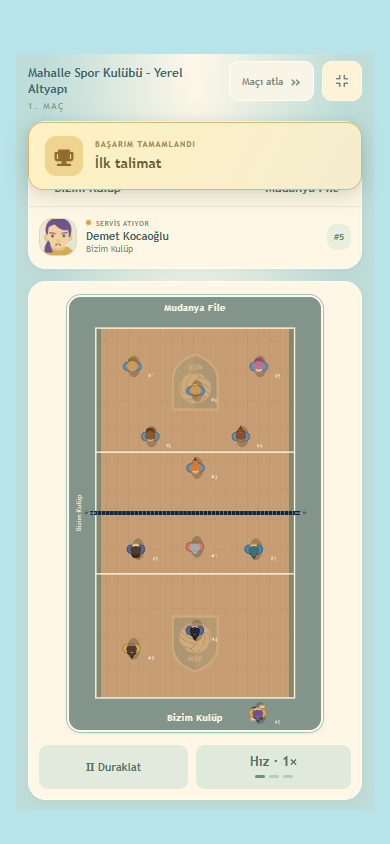
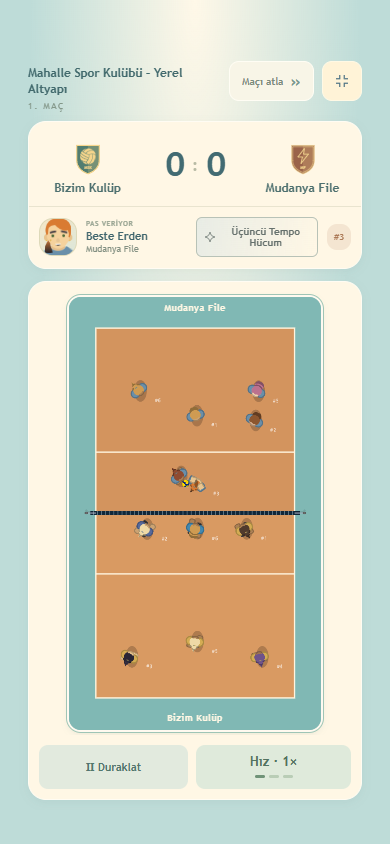
Remove fullscreen match background seams around safe areas

diff --git a/mac.html b/mac.html
@@ -1,4 +1,4 @@
-<!doctype html><html lang="tr"><head><script>if(new URLSearchParams(location.search).get("bootPepper")==="1")document.documentElement.classList.add("boot-pepper-only");</script><style>html.boot-pepper-only,html.boot-pepper-only body{background:#fff3d7!important}html.boot-pepper-only body>:not(#bootPepperStage){display:none!important}</style><meta charset="utf-8"><meta name="viewport" content="width=device-width,initial-scale=1,viewport-fit=cover"><title>Maç günü · Idle Spiker</title><style>*{box-sizing:border-box}body{margin:0;background:#101a29;color:#edf3fc;font:15px system-ui}main{max-width:1200px;margin:auto;padding:24px}header,.toolbar{display:flex;align-items:center;justify-content:space-between;gap:16px;flex-wrap:wrap}h1{font-size:25px;margin:0}p{color:#a9b8cd}a{color:#b0efd4}button,select{font:inherit;background:#233850;color:#fff;border:1px solid #4b617a;border-radius:9px;padding:10px 15px;cursor:pointer}.toolbar{justify-content:flex-start;margin:18px 0}canvas{display:block;width:100%;background:#19394a;border-radius:16px;border:1px solid #40596a}#score{font-size:24px;font-weight:700}#event{padding:14px;background:#1d2b3e;border-radius:10px;margin:12px 0;min-height:48px}.muted{font-size:13px}input{vertical-align:middle;max-width:120px}</style><link rel="stylesheet" href="match-mobile.css?v=a8e7e0a1949b"><link rel="stylesheet" href="match-skills.css?v=6fd30ac70f90"><link rel="stylesheet" href="language.css?v=b027c2a552b8"><script src="language-data.js?v=80bdfed06357"></script><script src="language.js?v=6352cc5dd035"></script><link rel="stylesheet" href="match-rival-styles.css?v=784f5d52bc09"><link rel="stylesheet" href="modal-backdrop.css?v=aaf247696ed5"><link rel="stylesheet" href="flow-lanes.css?v=d7f1e62ee16b"><link rel="stylesheet" href="match-announcement.css?v=15c71fd1f7ac"><link rel="stylesheet" href="match-ap-bubbles.css?v=b14d0d797014"></head><body><main><div class="match-heading"><small>MAHALLE SPOR KULÜBÜ</small><h2>Maç günü</h2></div><div class="team-labels"><span>🔵 Bizim takım</span><span>Rakip takım 🔴</span></div><header><div><h1>Deneme modu · Voleybol</h1><p>Bizim karakterler, üç vuruş ve arada kaçan toplar.</p></div><a href="uc-parca-editoru.html">← Yerleşim editörüne dön</a><div id="score">0 : 0</div></header><div class="toolbar"><button id="pause">Duraklat</button><button id="restart">Maçı yeniden başlat</button><label>Top <select id="ballStyle"><option value="ball_volley1.png">Beyaz voleybol topu</option><option value="ball_volley2.png">Sarı voleybol topu</option></select></label><label>Hız <select id="speed"><option value="0.7">Yavaş</option><option value="1" selected>Normal</option><option value="1.5">Hızlı</option></select></label><label>Top düşürme <input id="mistakes" type="range" min="0" max="35" value="12"> <span id="rate">%12</span></label><span id="touch">Servis hazırlanıyor</span></div><div class="toolbar" aria-label="Senaryo testleri"><strong>WASD · Shift: adımlama · Space: smaç · E: yönlü toss</strong><button id="controlPlayer">Oyuncuyu kontrol et · WASD</button><button id="feedBall">Pas iste</button><button id="practiceServe">Servisi dene</button><button id="test-block">Blok</button><button id="test-toss">Toss / Pas</button><button id="test-serve">Servis</button><button id="test-spike">Spike / Smaç</button><button id="returnMatch">Maça dön</button><button id="testRotation">↻ Rotasyonu göster</button><label>Formasyon <select id="formationMode"><option value="auto">Otomatik maç</option><option value="serve">Servis</option><option value="receive">Karşılama (W)</option><option value="attack">Hücum hazırlığı</option><option value="defend">Blok / savunma</option></select></label></div><section id="servicePanel" hidden style="padding:16px;background:#263f56;border-radius:12px;margin-bottom:12px"><strong>Servis sırası sende</strong><p id="serviceHint"></p><progress id="serviceMeter" max="100" value="0" style="width:220px"></progress> <span id="serviceReadout"></span> <button id="serviceAction">Space</button></section><div class="court-space"><div class="court-viewport"><span class="court-team court-away" data-team-name="1">Rakip takım</span><span class="court-team court-home" data-team-name="0">Bizim Kulüp</span><canvas id="court" width="1000" height="620"></canvas></div></div><div class="match-controls"><button id="mobilePause">Ⅱ Duraklat</button><button id="mobileSpeed">Hız · 1×</button></div><div id="event" role="status">Karakterler hazırlanıyor…</div><p class="muted">Servis hakkını kazanan takım saat yönünde döner; aynı takım sayı aldığında aynı oyuncu servis atar. Set: 5 sayı ve en az 2 fark. Otomatik 6’ya 6 oyun: karşılama → takım içi pas → üçüncü vuruşla karşıya gönderme. Kaçan top yere düşer, sayı yazılır ve yeni servis başlar. Kollar onayladığın omuz bağlantıları etrafında hareket eder.</p></main><script src="rival-styles.js?v=a43c42c91007"></script><script>
+<!doctype html><html lang="tr"><head><script>if(new URLSearchParams(location.search).get("bootPepper")==="1")document.documentElement.classList.add("boot-pepper-only");</script><style>html.boot-pepper-only,html.boot-pepper-only body{background:#fff3d7!important}html.boot-pepper-only body>:not(#bootPepperStage){display:none!important}</style><meta charset="utf-8"><meta name="viewport" content="width=device-width,initial-scale=1,viewport-fit=cover"><title>Maç günü · Idle Spiker</title><style>*{box-sizing:border-box}body{margin:0;background:#101a29;color:#edf3fc;font:15px system-ui}main{max-width:1200px;margin:auto;padding:24px}header,.toolbar{display:flex;align-items:center;justify-content:space-between;gap:16px;flex-wrap:wrap}h1{font-size:25px;margin:0}p{color:#a9b8cd}a{color:#b0efd4}button,select{font:inherit;background:#233850;color:#fff;border:1px solid #4b617a;border-radius:9px;padding:10px 15px;cursor:pointer}.toolbar{justify-content:flex-start;margin:18px 0}canvas{display:block;width:100%;background:#19394a;border-radius:16px;border:1px solid #40596a}#score{font-size:24px;font-weight:700}#event{padding:14px;background:#1d2b3e;border-radius:10px;margin:12px 0;min-height:48px}.muted{font-size:13px}input{vertical-align:middle;max-width:120px}</style><link rel="stylesheet" href="match-mobile.css?v=b7375d6c3e29"><link rel="stylesheet" href="match-skills.css?v=6fd30ac70f90"><link rel="stylesheet" href="language.css?v=b027c2a552b8"><script src="language-data.js?v=80bdfed06357"></script><script src="language.js?v=6352cc5dd035"></script><link rel="stylesheet" href="match-rival-styles.css?v=784f5d52bc09"><link rel="stylesheet" href="modal-backdrop.css?v=aaf247696ed5"><link rel="stylesheet" href="flow-lanes.css?v=d7f1e62ee16b"><link rel="stylesheet" href="match-announcement.css?v=15c71fd1f7ac"><link rel="stylesheet" href="match-ap-bubbles.css?v=b14d0d797014"></head><body><main><div class="match-heading"><small>MAHALLE SPOR KULÜBÜ</small><h2>Maç günü</h2></div><div class="team-labels"><span>🔵 Bizim takım</span><span>Rakip takım 🔴</span></div><header><div><h1>Deneme modu · Voleybol</h1><p>Bizim karakterler, üç vuruş ve arada kaçan toplar.</p></div><a href="uc-parca-editoru.html">← Yerleşim editörüne dön</a><div id="score">0 : 0</div></header><div class="toolbar"><button id="pause">Duraklat</button><button id="restart">Maçı yeniden başlat</button><label>Top <select id="ballStyle"><option value="ball_volley1.png">Beyaz voleybol topu</option><option value="ball_volley2.png">Sarı voleybol topu</option></select></label><label>Hız <select id="speed"><option value="0.7">Yavaş</option><option value="1" selected>Normal</option><option value="1.5">Hızlı</option></select></label><label>Top düşürme <input id="mistakes" type="range" min="0" max="35" value="12"> <span id="rate">%12</span></label><span id="touch">Servis hazırlanıyor</span></div><div class="toolbar" aria-label="Senaryo testleri"><strong>WASD · Shift: adımlama · Space: smaç · E: yönlü toss</strong><button id="controlPlayer">Oyuncuyu kontrol et · WASD</button><button id="feedBall">Pas iste</button><button id="practiceServe">Servisi dene</button><button id="test-block">Blok</button><button id="test-toss">Toss / Pas</button><button id="test-serve">Servis</button><button id="test-spike">Spike / Smaç</button><button id="returnMatch">Maça dön</button><button id="testRotation">↻ Rotasyonu göster</button><label>Formasyon <select id="formationMode"><option value="auto">Otomatik maç</option><option value="serve">Servis</option><option value="receive">Karşılama (W)</option><option value="attack">Hücum hazırlığı</option><option value="defend">Blok / savunma</option></select></label></div><section id="servicePanel" hidden style="padding:16px;background:#263f56;border-radius:12px;margin-bottom:12px"><strong>Servis sırası sende</strong><p id="serviceHint"></p><progress id="serviceMeter" max="100" value="0" style="width:220px"></progress> <span id="serviceReadout"></span> <button id="serviceAction">Space</button></section><div class="court-space"><div class="court-viewport"><span class="court-team court-away" data-team-name="1">Rakip takım</span><span class="court-team court-home" data-team-name="0">Bizim Kulüp</span><canvas id="court" width="1000" height="620"></canvas></div></div><div class="match-controls"><button id="mobilePause">Ⅱ Duraklat</button><button id="mobileSpeed">Hız · 1×</button></div><div id="event" role="status">Karakterler hazırlanıyor…</div><p class="muted">Servis hakkını kazanan takım saat yönünde döner; aynı takım sayı aldığında aynı oyuncu servis atar. Set: 5 sayı ve en az 2 fark. Otomatik 6’ya 6 oyun: karşılama → takım içi pas → üçüncü vuruşla karşıya gönderme. Kaçan top yere düşer, sayı yazılır ve yeni servis başlar. Kollar onayladığın omuz bağlantıları etrafında hareket eder.</p></main><script src="rival-styles.js?v=a43c42c91007"></script><script>
 (function(root){
 'use strict';
 const clamp=(n,a,b)=>Math.max(a,Math.min(b,n));
@@ -333,4 +333,4 @@ function matchSound(action,data={}){if(typeof window==='undefined')return;if(win
 let audioPaused=false;
 init();
 </script><script>if(new URLSearchParams(location.search).get('academyTraining')==='1'||new URLSearchParams(location.search).get('bootPepper')==='1')window.AcademyNativeSimulation={tick,launch,serve};</script><script>for(const event of ['pointerdown','keydown'])document.addEventListener(event,()=>{try{if(parent!==window)parent.GameAudio?.unlock()}catch{}matchSound('unlock')});</script><div id="matchResult" hidden><strong id="resultTitle"></strong><p id="resultScore"></p><button id="resultContinue">Kulübe dön</button></div><script src="number-ui.js?v=a24b5930e991"></script><script src="match-presentation.js?v=855bcf25f3ac"></script><script src="player-skills.js?v=1fc224528d8a"></script><script src="hair-colors.js?v=abe7abc4d901"></script><script src="match-roster.js?v=2965d87b66cb"></script><script src="match-pose-data.js?v=35f85aefb243"></script><script src="match-motion.js?v=44251ba5190c"></script><script src="reaction-art.js?v=9fa35784bce6"></script><script src="match-skill-visuals.js?v=4bdc0ef9ded9"></script>
-<script src="match-skills.js?v=ad45ec51a653"></script><script src="match-mobile.js?v=54844bffc92b"></script><script src="match-frames.js?v=3321f0d75027"></script><script src="match-lab-demo.js?v=1f51f1cd4a23"></script><script src="player-body-motion.js?v=3759118e2b1d"></script><script src="match-hair-data.js?v=c989d7a45c71"></script><script src="match-hair.js?v=cccfd67024e5"></script><script src="match-server.js?v=1cb2cbd7e2b3"></script><script src="match-rival-styles.js?v=85926be810bf"></script><script src="equipment-comparison-data.js?v=73110dfe75bc"></script><script src="equipment-vector-hair-data.js?v=a61569156187"></script><script src="equipment-authored-walk.js?v=587c1a1046ff"></script><script src="equipment-action-poses.js?v=2d3e12fb0d65"></script><script src="match-vector-characters.js?v=268463899486"></script><script src="authored-spike-preview.js?v=46bb92a282f8"></script><script src="match-court-surface.js?v=57b3f03b5b57"></script><script src="match-court-posts.js?v=7ca0d66c2bb6"></script><script src="equipment-comparison-preview.js?v=0c40b1d938d4"></script><script src="match-ap-bubbles.js?v=b4775ec14b7a"></script><script src="academy-gym-scene.js?v=9fc92469a947"></script><script src="academy-training-stations.js?v=f9b76aa941f5"></script><script src="academy-scrimmage.js?v=9545d41d1804"></script><script src="academy-native-training.js?v=4ae337ea88bf"></script><script src="boot-native-pepper.js?v=bd444cf23ad4"></script></body></html>
+<script src="match-skills.js?v=ad45ec51a653"></script><script src="match-mobile.js?v=9b17890a0b98"></script><script src="match-frames.js?v=3321f0d75027"></script><script src="match-lab-demo.js?v=1f51f1cd4a23"></script><script src="player-body-motion.js?v=3759118e2b1d"></script><script src="match-hair-data.js?v=c989d7a45c71"></script><script src="match-hair.js?v=cccfd67024e5"></script><script src="match-server.js?v=1cb2cbd7e2b3"></script><script src="match-rival-styles.js?v=85926be810bf"></script><script src="equipment-comparison-data.js?v=73110dfe75bc"></script><script src="equipment-vector-hair-data.js?v=a61569156187"></script><script src="equipment-authored-walk.js?v=587c1a1046ff"></script><script src="equipment-action-poses.js?v=2d3e12fb0d65"></script><script src="match-vector-characters.js?v=268463899486"></script><script src="authored-spike-preview.js?v=46bb92a282f8"></script><script src="match-court-surface.js?v=57b3f03b5b57"></script><script src="match-court-posts.js?v=7ca0d66c2bb6"></script><script src="equipment-comparison-preview.js?v=0c40b1d938d4"></script><script src="match-ap-bubbles.js?v=b4775ec14b7a"></script><script src="academy-gym-scene.js?v=9fc92469a947"></script><script src="academy-training-stations.js?v=f9b76aa941f5"></script><script src="academy-scrimmage.js?v=9545d41d1804"></script><script src="academy-native-training.js?v=4ae337ea88bf"></script><script src="boot-native-pepper.js?v=bd444cf23ad4"></script></body></html>

diff --git a/index.html b/index.html
@@ -1,5 +1,5 @@
 <!doctype html>
-<html lang="tr"><head><script src="flow-preview-environment.js?v=bd84173813bd"></script><meta charset="utf-8"><meta name="viewport" content="width=device-width,initial-scale=1,viewport-fit=cover"><meta name="theme-color" content="#72c8e5"><link rel="manifest" href="manifest.webmanifest"><link rel="apple-touch-icon" href="assets/app/apple-touch-icon.png"><meta name="apple-mobile-web-app-capable" content="yes"><meta name="apple-mobile-web-app-title" content="Idle Spiker"><meta name="apple-mobile-web-app-status-bar-style" content="default"><link rel="stylesheet" href="app-display.css?v=7b80bab6ad26"><script src="app-display.js?v=b5d87ee171a3" defer></script><title>Idle Spiker · Kulüp Merkezi</title><link rel="stylesheet" href="menu.css?v=7f4cff442596"><link rel="stylesheet" href="menu-game.css?v=7c47dfcd1936"><link rel="stylesheet" href="team.css?v=bcffe6b92c1a"><link rel="stylesheet" href="league-season.css?v=6a6a164bc92c"><style>#bootScreen{position:fixed;inset:0;max-width:480px;margin-inline:auto;z-index:10000;display:grid;place-content:center;justify-items:center;gap:20px;background:#fff3d7;color:#547c83;font-family:system-ui,sans-serif}#bootScreen strong{font-size:30px;letter-spacing:2px}#bootScreen strong span{color:#bb995b}#bootScreen p{font-size:12px;margin:0;color:#819383}#bootPepper{visibility:hidden;width:260px;height:212px;border:0;background:transparent;pointer-events:none}#bootScreen img{width:48px;height:48px;animation:boot-bounce 1.2s ease-in-out infinite}@keyframes boot-bounce{50%{transform:translateY(-12px) rotate(18deg)}}@media(prefers-reduced-motion:reduce){#bootScreen img{animation:none}}</style><link rel="stylesheet" href="club-journey.css?v=917a08a31784"><link rel="stylesheet" href="bal-stage.css?v=444abd056d33"><script src="season-clock.js?v=656aaba36264"></script><script src="bal-recovery.js?v=003056f070b8"></script><script src="weekly-season-migration.js?v=c91052e58aec"></script><script src="number-ui.js?v=a24b5930e991"></script><link rel="stylesheet" href="theme.css?v=0b9605642a6e"><script src="theme.js?v=2ff3fa24a10d"></script><link rel="stylesheet" href="achievements.css?v=1c29bee815e6"><link rel="stylesheet" href="division-three.css?v=78ff12e9b771"><link rel="stylesheet" href="social-screen.css?v=6af08b4f68fb"><link rel="stylesheet" href="league-players.css?v=86e88a43a3b5"><link rel="stylesheet" href="language.css?v=b027c2a552b8"><script src="language-data.js?v=80bdfed06357"></script><script src="language.js?v=6352cc5dd035"></script><link rel="stylesheet" href="player-skills.css?v=c6311b52ef2f"><link rel="stylesheet" href="styles/ui/player-club-card.css?v=db2b858286ff"><link rel="stylesheet" href="styles/ui/transfer-center.css?v=7bcc2f214fba"><script src="scripts/ui/dialog-navigation.js?v=0988251be4a1" defer></script><link rel="stylesheet" href="social-journey.css?v=381c58c2dc22"><link rel="stylesheet" href="next-match-card.css?v=05b830fcc39d"><link rel="stylesheet" href="social-follower-counter.css?v=038892551d63"><link rel="stylesheet" href="player-profile.css?v=9c3d709eac72"><link rel="stylesheet" href="ui-icons.css?v=b5ce6adfd485"><link rel="stylesheet" href="flow-effects.css?v=f82bf838ab8c"><link rel="stylesheet" href="board-doodles.css?v=85c5f17bdbe1"><link rel="stylesheet" href="board-presentation.css?v=3ae360fc348f"><link rel="stylesheet" href="progression-visuals.css?v=1e6ac8134075"><link rel="stylesheet" href="flow-lanes.css?v=d7f1e62ee16b"><link rel="stylesheet" href="flow-media-theme.css?v=a959430cbe25"><link rel="stylesheet" href="ui-components.css?v=7134f0d3ab29"><link rel="stylesheet" href="academy.css?v=1b4435c160c0"></head>
+<html lang="tr"><head><script src="flow-preview-environment.js?v=bd84173813bd"></script><meta charset="utf-8"><meta name="viewport" content="width=device-width,initial-scale=1,viewport-fit=cover"><meta name="theme-color" content="#72c8e5"><link rel="manifest" href="manifest.webmanifest"><link rel="apple-touch-icon" href="assets/app/apple-touch-icon.png"><meta name="apple-mobile-web-app-capable" content="yes"><meta name="apple-mobile-web-app-title" content="Idle Spiker"><meta name="apple-mobile-web-app-status-bar-style" content="default"><link rel="stylesheet" href="app-display.css?v=dddd03a9c288"><script src="app-display.js?v=b5d87ee171a3" defer></script><title>Idle Spiker · Kulüp Merkezi</title><link rel="stylesheet" href="menu.css?v=7f4cff442596"><link rel="stylesheet" href="menu-game.css?v=7c47dfcd1936"><link rel="stylesheet" href="team.css?v=bcffe6b92c1a"><link rel="stylesheet" href="league-season.css?v=6a6a164bc92c"><style>#bootScreen{position:fixed;inset:0;max-width:480px;margin-inline:auto;z-index:10000;display:grid;place-content:center;justify-items:center;gap:20px;background:#fff3d7;color:#547c83;font-family:system-ui,sans-serif}#bootScreen strong{font-size:30px;letter-spacing:2px}#bootScreen strong span{color:#bb995b}#bootScreen p{font-size:12px;margin:0;color:#819383}#bootPepper{visibility:hidden;width:260px;height:212px;border:0;background:transparent;pointer-events:none}#bootScreen img{width:48px;height:48px;animation:boot-bounce 1.2s ease-in-out infinite}@keyframes boot-bounce{50%{transform:translateY(-12px) rotate(18deg)}}@media(prefers-reduced-motion:reduce){#bootScreen img{animation:none}}</style><link rel="stylesheet" href="club-journey.css?v=917a08a31784"><link rel="stylesheet" href="bal-stage.css?v=444abd056d33"><script src="season-clock.js?v=656aaba36264"></script><script src="bal-recovery.js?v=003056f070b8"></script><script src="weekly-season-migration.js?v=c91052e58aec"></script><script src="number-ui.js?v=a24b5930e991"></script><link rel="stylesheet" href="theme.css?v=0b9605642a6e"><script src="theme.js?v=2ff3fa24a10d"></script><link rel="stylesheet" href="achievements.css?v=1c29bee815e6"><link rel="stylesheet" href="division-three.css?v=78ff12e9b771"><link rel="stylesheet" href="social-screen.css?v=6af08b4f68fb"><link rel="stylesheet" href="league-players.css?v=86e88a43a3b5"><link rel="stylesheet" href="language.css?v=b027c2a552b8"><script src="language-data.js?v=80bdfed06357"></script><script src="language.js?v=6352cc5dd035"></script><link rel="stylesheet" href="player-skills.css?v=c6311b52ef2f"><link rel="stylesheet" href="styles/ui/player-club-card.css?v=db2b858286ff"><link rel="stylesheet" href="styles/ui/transfer-center.css?v=7bcc2f214fba"><script src="scripts/ui/dialog-navigation.js?v=0988251be4a1" defer></script><link rel="stylesheet" href="social-journey.css?v=381c58c2dc22"><link rel="stylesheet" href="next-match-card.css?v=05b830fcc39d"><link rel="stylesheet" href="social-follower-counter.css?v=038892551d63"><link rel="stylesheet" href="player-profile.css?v=9c3d709eac72"><link rel="stylesheet" href="ui-icons.css?v=b5ce6adfd485"><link rel="stylesheet" href="flow-effects.css?v=f82bf838ab8c"><link rel="stylesheet" href="board-doodles.css?v=85c5f17bdbe1"><link rel="stylesheet" href="board-presentation.css?v=3ae360fc348f"><link rel="stylesheet" href="progression-visuals.css?v=1e6ac8134075"><link rel="stylesheet" href="flow-lanes.css?v=d7f1e62ee16b"><link rel="stylesheet" href="flow-media-theme.css?v=a959430cbe25"><link rel="stylesheet" href="ui-components.css?v=7134f0d3ab29"><link rel="stylesheet" href="academy.css?v=1b4435c160c0"></head>
 <body><div id="bootScreen" role="status" aria-live="polite"><strong>IDLE<span>SPIKER</span></strong><iframe id="bootPepper" src="mac.html?bootPepper=1" title="Isınma yapan iki oyuncu" tabindex="-1" aria-hidden="true"></iframe><p>Kulüp hazırlanıyor…</p></div><script>window.bootStartedAt=performance.now();window.bootFallback=setTimeout(function(){document.getElementById("bootScreen")?.remove()},10000)</script><div class="shell"><aside class="rail"><a class="brand" href="index.html" aria-label="Idle Spiker ana menü"><svg viewBox="0 0 40 40" aria-hidden="true"><circle cx="20" cy="20" r="15"/><path d="M7 13q15 0 18 22M19 5q-5 13-12 19M34 17q-12-3-19 13"/></svg></a><span class="rail-word">IDLE SPIKER</span><a class="rail-icon active" href="index.html" aria-label="Kulüp merkezi" title="Kulüp merkezi">⌂</a><span class="rail-bottom">01 / CLUB</span></aside>
 <div class="content"><header class="topbar"><a href="index.html" class="wordmark">IDLE<span>SPIKER</span><small>VOLEYBOL KULÜBÜ</small></a><nav aria-label="Ana gezinme"><span class="nav-current">Kulüp merkezi</span></nav><button id="settingsButton" class="settings-button" type="button" aria-label="Ayarları aç">⚙ Ayarlar</button></header>
 <main><div class="dashboard"><section id="clubPanel" class="club-panel" aria-label="Kulüp departmanları"><div class="section-top"><div><span class="eyebrow">BİZİM KULÜP · AŞAMA 1</span></div></div>

diff --git a/match-mobile.js b/match-mobile.js
@@ -1,5 +1,5 @@
 (function(){
-window.addEventListener('message',event=>{if(event.source!==parent||event.data?.type!=='spiker-host-layout')return;const width=event.data.controlsWidth;if(Number.isFinite(width)&&width>=80&&width<=240)document.documentElement.style.setProperty('--match-header-reserve',Math.ceil(width)+'px');});
+window.addEventListener('message',event=>{if(event.source!==parent||event.data?.type!=='spiker-host-layout')return;const width=event.data.controlsWidth;if(Number.isFinite(width)&&width>=80&&width<=240){document.documentElement.classList.add('match-hosted');document.documentElement.style.setProperty('--match-header-reserve',Math.ceil(width)+'px');}});
 const space=document.querySelector('.court-space'),courtBox=document.querySelector('.court-viewport');function fitCourt(){const w=Math.max(0,Math.min(space.clientWidth-10,(space.clientHeight-10)*560/960));courtBox.style.width=w+'px';courtBox.style.height=(w*960/560)+'px';const panel=space.closest('.match-play-area');if(panel)panel.style.width='';}new ResizeObserver(fitCourt).observe(space);fitCourt();
 const baseAward=awardPoint,baseSound=matchSound;let finished=false,skipping=false,speedIndex=0;
 const totals=Array.from({length:2},()=>({spike:0,block:0,ace:0,error:0})),scorers=new Map();let lastPoint=0;

diff --git a/app-display.css b/app-display.css
@@ -24,3 +24,6 @@ html.app-expanded .match-shellbar{top:var(--app-safe-top);left:var(--app-safe-le
 
 html.app-expanded :is(.achievement-notice,.stage-transition-banner){top:calc(var(--app-view-top,0px) + var(--app-safe-top) + 68px);max-width:calc(var(--app-view-width,100vw) - var(--app-safe-left) - var(--app-safe-right) - 24px);left:calc(var(--app-view-left,0px) + var(--app-view-width,100vw)/2)}
 html.app-expanded :is(.toast,#tapRhythm){bottom:calc(var(--app-view-bottom,0px) + var(--app-nav-height,68px) + var(--app-energy-height,84px) + 28px);max-width:calc(var(--app-view-width,100vw) - var(--app-safe-left) - var(--app-safe-right) - 24px)}
+
+/* The host paints one continuous background through the transparent match iframe. */
+#gameMatchDialog{background:radial-gradient(ellipse at 50% 0,#fff8e8,transparent 60%),#bedcd8}

diff --git a/match-mobile.css b/match-mobile.css
@@ -256,3 +256,5 @@ main>header,.team-labels,.toolbar,.muted,.match-live,.team-mark,.score-team smal
 .serve-strip.point-strip-enter{animation:none}.serve-strip.has-server{transition:none}
 
 .notice-page-back>.serve-strip[data-point="false"]{background:#fff7e5!important}
+
+html.match-hosted,html.match-hosted body{background:transparent}

diff --git a/DESIGN-SYSTEM.md b/DESIGN-SYSTEM.md
@@ -440,3 +440,10 @@ Kullanıcı, başa sardığı belli olan klipler yerine topun geri döndüğü, 
 - Parent, maçın üst düğmelerinin ölçülmüş toplam genişliğini spiker-host-layout mesajıyla yalnız oyun iframe’ine bildirir. match-mobile.js yalnız parent kaynağından ve sınırlı sayısal aralıktan kabul eder. Başlık sağında gerçek kontrol alanı ayrılır; skor/anons/saha anatomisi değişmez.
 - Geçici üst bildirimler kamera ve üst kontrollerin altından başlar; alt bildirimler sabit menü ve talimat düğmesinin üstünde kalır.
 - test-device-safe-area.cjs 320/390px dikey ve 844px yatay görünüm, 54px kamera/34px alt alan simülasyonu, gezinme öğelerinin birbirine girmemesi, alt kontrol aralığı ve gerçek maç başlığı/düğme çakışmasını doğrular. test-fullscreen-layout.cjs, test-app-display.cjs ve iki anons testi de geçti. Fiziksel mobil cihaz testi yapılmadı. Görseller audits/safe-area-club.png ve audits/safe-area-match.png.
+
+
+## 25 Ekim 2026 — Maç güvenli alanında kesintisiz zemin
+
+- Tam ekran maçın kamera/kenar dolgusu ayrı düz mavi bant olarak çizilmez. gameMatchDialog, maçın mevcut krem-yeşil geçişli arka planını tek seferde bütün alana çizer.
+- Parent’ın doğrulanmış spiker-host-layout mesajını alan oyun iframe’i match-hosted sınıfıyla html/body arka planını saydam yapar. Böylece iframe sınırında renk kesilmesi ve yeniden başlayan gradient olmaz. Bağımsız maç/lab zemini aynı kalır.
+- Kamera/çentik payları, kontrol konumları, ayrı skor ve saha kartlarının ölçüleri korunur. test-device-safe-area.cjs gerçek iframe’de ortak parent zemini ve saydam çocuk yüzeyini doğrular; anons geometrisi testi de geçti. Görsel audits/safe-area-match.png.
